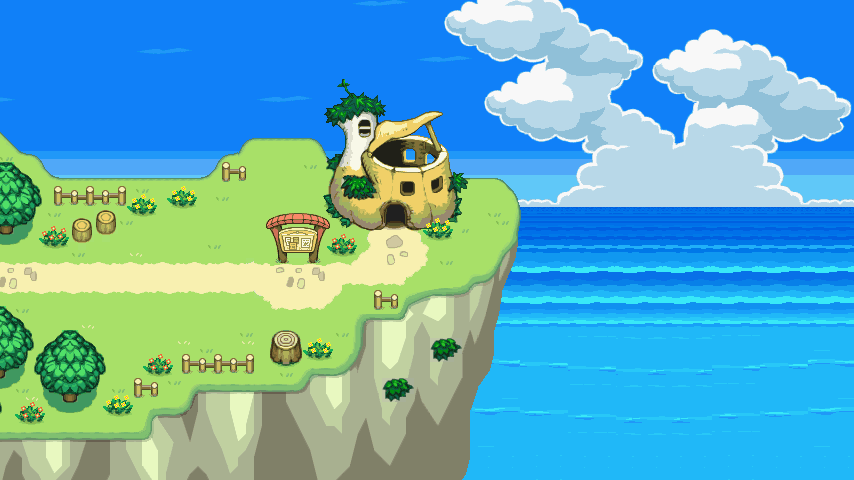
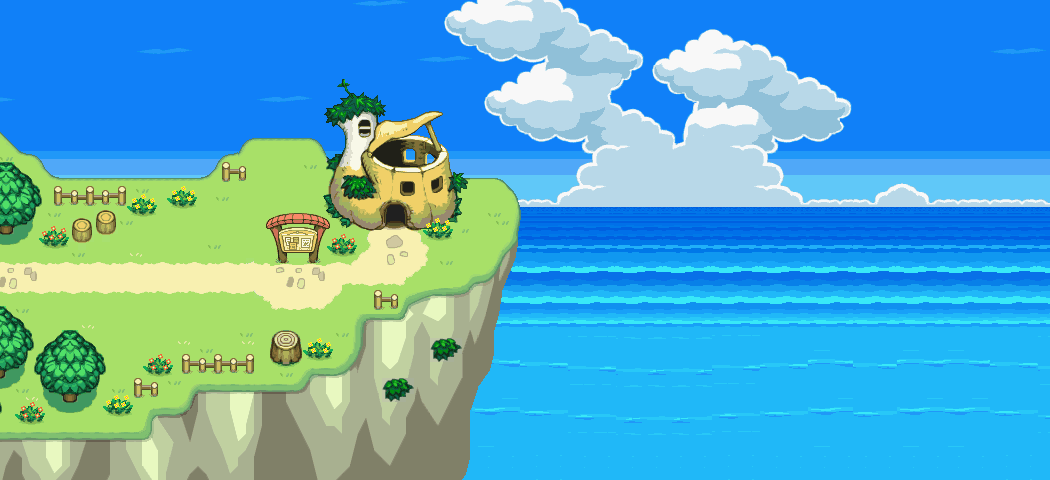
testing extended image

diff --git a/style.css b/style.css
@@ -80,10 +80,9 @@ text-decoration: underline;
 body {
 background:
     url('/assets/PelipperBuilding.png') no-repeat left top,
-    url('/assets/BackgroundWater.png') repeat right top,
     linear-gradient(to bottom, #87cefa 0%, #2b81e5 100%);
-background-size: auto 100%, auto 100%, cover;
-background-position: left bottom, right bottom, 0 0;
+background-size: auto 100%, cover;
+background-position: left bottom, 0 0;
 background-attachment: fixed;
 color: white;
 font-family: 'Segoe UI', sans-serif;
